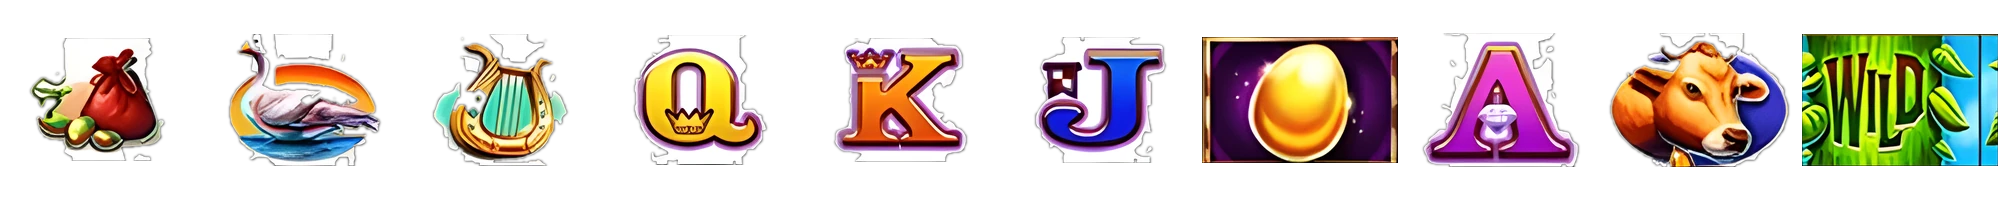
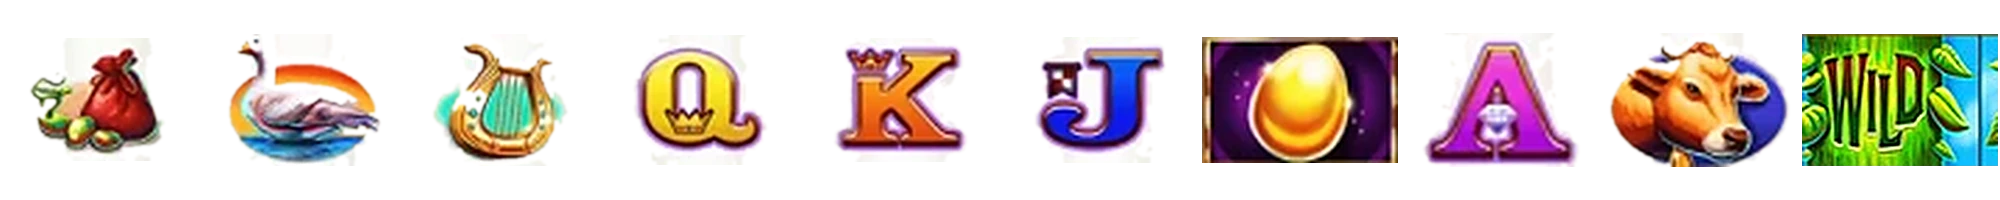
Giant's Gold: restore original symbols, eggs give n+ spins up to 100 (v80)
Claude-Session: https://claude.ai/code/session_01GACsyhKXrQRPfxxt1WzLhy

diff --git a/js/games/colossal.js b/js/games/colossal.js
@@ -11,8 +11,8 @@
 //    del colosal tiene símbolos dobles y WILD con multiplicador x2…x25 (x50 y x100 en giros gratis).
 //    3/4/5+ coliseos (de a uno por rodillo) = 8/12/20 giros gratis; en ellos un WILD se expande a todo el
 //    rodillo del principal y pasa entero al colosal.
-import { glow, goldText, roundRect, rand, FONT, makeCanvas, boltPoints, drawBolt } from '../gfx.js?v=79';
-import { ReelSet, LINES_5x3, weighted } from '../reels.js?v=79';
+import { glow, goldText, roundRect, rand, FONT, makeCanvas, boltPoints, drawBolt } from '../gfx.js?v=80';
+import { ReelSet, LINES_5x3, weighted } from '../reels.js?v=80';
 
 const COLS = 5, ROWS = 4, BIG_ROWS = 12;
 // 40 líneas del tablero principal y 60 del colosal (20 por cada banda de 4 filas)
@@ -41,9 +41,9 @@ function heroStrip(cfg, n, minH, L = n) {
 }
 const withStrip = (col, { r0, cells }) => col.slice(0, r0).concat(cells, col.slice(r0 + cells.length));
 const SCAT_REELS = [0, 2, 4];
-// Huevos de oro a la vista → giros gratis (3 huevos = 5 giros … 40 o más = 100 giros)
-const EGG_SPINS = [[40, 100], [35, 80], [30, 65], [25, 50], [20, 40], [16, 30], [13, 25], [10, 20], [8, 15], [7, 12], [6, 10], [5, 8], [4, 6], [3, 5]];
-export const eggSpins = n => (EGG_SPINS.find(([m]) => n >= m) || [0, 5])[1];
+// Huevos de oro a la vista → giros gratis: tantos giros como huevos y algo más (n + 2 + n/10),
+// hasta un máximo de 100 (3 = 5 · 5 = 7 · 10 = 13 · 50 = 57 · 80 = 90 · 89 o más = 100)
+export const eggSpins = n => Math.min(100, n + 2 + Math.floor(n / 10));
 export const MYSTERY_P = 1 / 260;
 // ÁNIMO DE LA MÁQUINA (como una máquina real de casino): en el juego base se alternan rachas FRÍAS
 // (pocas figuras apiladas y pocos bonos), NORMALES y CALIENTES (más personajes, pilas, WILD y bonos),
@@ -71,7 +71,7 @@ export const GIANT = {
     cow: [0, 0, 0, 15, 50, 150], goose: [0, 0, 0, 15, 40, 120], A: [0, 0, 0, 8, 25, 100], K: [0, 0, 0, 8, 20, 90], Q: [0, 0, 0, 5, 15, 75], J: [0, 0, 0, 5, 15, 60]
   },
   weights: { giant: 3, girl: 3.5, harp: 4, sack: 4.5, cow: 5, goose: 5, A: 10, K: 10, Q: 11, J: 13, bean: 0.8, egg: 1.4 },
-  scale: 0.83,
+  scale: 1.0,
   fullWild: { base: 0.006, free: 0.05 }, stackP: 0.3, wildStack: 0.14, eggStack: 0.35, eggFull: 0.12, eggFullBig: 0.004, heroCol: 0.06, heroColBig: 0.05,
   colors: {
     giant: ['#e8c89a', '#8a5a2a'], girl: ['#bfe8a8', '#3a7a2a'], harp: ['#fff0b0', '#b8861a'], sack: ['#ffc0b0', '#a82a1a'], cow: ['#d8f0ff', '#3a7ab0'], goose: ['#fff8e0', '#c8a040'],
@@ -421,7 +421,8 @@ class Colossal {
     this.main = new ReelSet({ cols: COLS, rows: ROWS, pick: c => this.spinPick(c, false), drawSym: (x, s, px, py, w, h, o) => this.drawMain(x, s, px, py, w, h, o) });
     this.big = new ReelSet({ cols: COLS, rows: BIG_ROWS, pick: c => this.spinPick(c, true), drawSym: (x, s, px, py, w, h, o) => this.drawBigCell(x, s, px, py, w, h, o) });
     // Al abrir, el colosal ya muestra sus pilas
-    for (let c = 0; c < COLS; c++) this.setColumn(this.big, c, bigColumn(cfg, c, false));
+    for (let c = 0; c < COLS; c++) { this.setColumn(this.main, c, mainColumn(cfg, c, false)); this.setColumn(this.big, c, bigColumn(cfg, c, false)); }
+    this.spinQ = null; // el relleno inicial no deja franjas a medio entregar
     this.freeLeft = 0; this.freeTotal = 0; this.inFree = false; this.fsTotal = 0;
     this.wins = null; this.winT = 0; this.time = 0; this.full = []; this.mega = -1; this.megaK = null;
     this.buy = { label: 'BONO', sub: b => app.fmt(b * 50), cost: b => b * 50, run: () => this.buyFree() };
@@ -1082,7 +1083,7 @@ export class GiantGold extends Colossal {
     return '<li><b>Dos tableros</b>: principal de <b>5×4</b> (40 líneas) y <b>colosal de 5×12</b> (60 líneas) = <b>100 líneas</b>. Los dos giran a la vez y en el colosal los símbolos caen en <b>pilas</b>.</li>' +
       '<li><b>Habichuela mágica = WILD</b> apilado; sustituye a todo menos al huevo de oro. Si un rodillo del principal queda <b>lleno de WILD</b>, se <b>transfiere entero</b> al mismo rodillo del colosal.</li>' +
       '<li><b>El gigante y la heroína</b> caen siempre de cuerpo completo: el rodillo entero del principal y el rodillo entero del colosal (12 filas). Son los símbolos que más pagan (5 en línea = 2000 y 1500 créditos por línea).</li>' +
-      '<li><b>Huevo de oro BONUS</b>, apilado (puede llenar un rodillo entero del principal o del colosal), solo en los rodillos 1, 3 y 5 de ambos tableros. Con huevos en <b>3 o más rodillos</b> se ganan giros gratis según los huevos a la vista: <b>3 = 5 · 5 = 8 · 8 = 15 · 10 = 20 · 16 = 30 · 25 = 50 · 40 o más = 100 giros</b>.</li>' +
+      '<li><b>Huevo de oro BONUS</b>, apilado (puede llenar un rodillo entero del principal o del colosal), solo en los rodillos 1, 3 y 5 de ambos tableros. Con huevos en <b>3 o más rodillos</b> se ganan <b>tantos giros gratis como huevos a la vista y algo más</b>: <b>3 = 5 · 5 = 7 · 10 = 13 · 20 = 24 · 50 = 57 · 80 = 90</b>, hasta un máximo de <b>100 giros</b>.</li>' +
       '<li>En los giros gratis <b>todo lo que se gana en el colosal paga x2</b>, salen más habichuelas y los huevos pueden dar más giros.</li>' +
       '<li><b>Progresivos</b>: rodillos WILD transferidos a la vez · <b>2 = MINI · 3 = MINOR · 4 = MAJOR · 5 = GRAND</b>.</li>';
   }

diff --git a/js/app.js b/js/app.js
@@ -1,19 +1,19 @@
-import { sfx, usableVoices } from './audio.js?v=79';
-import { loadAtlas, clearSpriteCache, Particles, goldText, ease, glow, clamp, FONT, rand } from './gfx.js?v=79';
-import { sleep } from './reels.js?v=79';
-import XLink from './games/xlink.js?v=79';
-import Avalanche from './games/avalanche.js?v=79';
-import FireWheel from './games/firewheel.js?v=79';
-import Legion from './games/legion.js?v=79';
-import Bull from './games/bull.js?v=79';
-import Dragon from './games/dragon.js?v=79';
-import Codex from './games/codex.js?v=79';
-import Reef from './games/reef.js?v=79';
-import Western from './games/western.js?v=79';
-import Galaxy from './games/galaxy.js?v=79';
-import { RedDream, SnowKingdom, loadThemeArt, sheetIconStyle } from './games/xthemes.js?v=79';
-import Wolf, { loadWolfArt } from './games/wolf.js?v=79';
-import { GiantGold, Spartacus, loadColossalArt } from './games/colossal.js?v=79';
+import { sfx, usableVoices } from './audio.js?v=80';
+import { loadAtlas, clearSpriteCache, Particles, goldText, ease, glow, clamp, FONT, rand } from './gfx.js?v=80';
+import { sleep } from './reels.js?v=80';
+import XLink from './games/xlink.js?v=80';
+import Avalanche from './games/avalanche.js?v=80';
+import FireWheel from './games/firewheel.js?v=80';
+import Legion from './games/legion.js?v=80';
+import Bull from './games/bull.js?v=80';
+import Dragon from './games/dragon.js?v=80';
+import Codex from './games/codex.js?v=80';
+import Reef from './games/reef.js?v=80';
+import Western from './games/western.js?v=80';
+import Galaxy from './games/galaxy.js?v=80';
+import { RedDream, SnowKingdom, loadThemeArt, sheetIconStyle } from './games/xthemes.js?v=80';
+import Wolf, { loadWolfArt } from './games/wolf.js?v=80';
+import { GiantGold, Spartacus, loadColossalArt } from './games/colossal.js?v=80';
 
 const GAMES = [XLink, RedDream, SnowKingdom, Wolf, Avalanche, FireWheel, Legion, Bull, Dragon, Codex, Reef, Western, Galaxy, GiantGold, Spartacus];
 const BETS = [10, 20, 30, 50, 100, 200, 500];

diff --git a/sw.js b/sw.js
@@ -1,6 +1,6 @@
 // Caché offline: la app funciona sin conexión una vez abierta.
-const CACHE = 'aurum-v79';
-const V = '?v=79';
+const CACHE = 'aurum-v80';
+const V = '?v=80';
 const FILES = ['./', './index.html', './css/app.css' + V, './js/app.js' + V, './js/audio.js' + V, './js/gfx.js' + V, './js/reels.js' + V,
   './js/games/xlink.js' + V, './js/games/avalanche.js' + V, './js/games/firewheel.js' + V, './js/games/legion.js' + V, './js/games/bull.js' + V, './js/games/dragon.js' + V, './js/games/codex.js' + V, './js/games/reef.js' + V, './js/games/western.js' + V, './js/games/galaxy.js' + V, './js/games/xthemes.js' + V, './js/games/wolf.js' + V, './js/games/colossal.js' + V,
   './assets/symbols.webp', './assets/themes.webp', './assets/wolf.webp', './assets/colossal.webp', './assets/giant_hero.webp', './assets/giant_sky.webp', './assets/giant_heroine.webp', './assets/giant_girltall.webp', './assets/giant_sym.webp', './assets/giant_scene.webp', './assets/sparta_sym.webp', './assets/sparta_tall.webp', './assets/sparta_ctall.webp', './assets/sparta_wtall.webp', './assets/sparta_scene.webp', './assets/sfx/howl.wav', './assets/sfx/bonus_in1.mp3', './assets/sfx/bonus_in2.mp3', './assets/sfx/levelup2.mp3', './assets/sfx/levelup3.mp3', './assets/sfx/coin_loop.mp3', './assets/sfx/jackpot2.mp3', './assets/sfx/jackpot3.mp3', './assets/sfx/youwin1.mp3', './assets/sfx/youwin2.mp3', './assets/sfx/youwin3.mp3', './assets/sfx/sparta_fs.mp3', './assets/sfx/sparta_antic.mp3', './assets/sfx/real_1.mp3', './assets/sfx/real_2.mp3', './assets/sfx/real_3.mp3', './assets/sfx/real_4.mp3', './assets/sfx/real_5.mp3', './assets/sfx/real_6.mp3', './assets/sfx/real_7.mp3', './assets/sfx/real_8.mp3', './assets/sfx/real_9.mp3', './assets/sfx/real_10.mp3', './assets/sfx/real_11.mp3', './assets/sfx/real_12.mp3', './assets/sfx/real_13.mp3', './assets/sfx/real_14.mp3', './assets/sfx/real_15.mp3', './assets/voice/index.json', './icon-180.png', './icon-512.png', './manifest.webmanifest'];

diff --git a/js/games/xlink.js b/js/games/xlink.js
@@ -3,8 +3,8 @@
 // hasta 8 filas y 100 líneas. 6+ bolas doradas activan GOLDEN SPINS: las bolas quedan fijas,
 // 3 giros que se reinician con cada bola nueva y filas que se desbloquean con rayos al
 // acumular 8 · 12 · 17 · 23 · 30 bolas. Tablero lleno (40) = GRAND.
-import { S, sym, ball, jackpotRibbonBall, cashBall, spinsBall, specialIcon, spriteURL, bolt, electricRing, glow, goldText, roundRect, ease, rand, makeCanvas, FONT } from '../gfx.js?v=79';
-import { ReelSet, LINES_5x3, weighted } from '../reels.js?v=79';
+import { S, sym, ball, jackpotRibbonBall, cashBall, spinsBall, specialIcon, spriteURL, bolt, electricRing, glow, goldText, roundRect, ease, rand, makeCanvas, FONT } from '../gfx.js?v=80';
+import { ReelSet, LINES_5x3, weighted } from '../reels.js?v=80';
 
 const COLS = 5, MAXR = 8, BASE_R = 3;
 const TEASE = 0.07, TEASE_EDGE = 0.18, GHOST_P = 0.4; // bolas extra detrás de la cortina (efecto "casi")

diff --git a/js/games/galaxy.js b/js/games/galaxy.js
@@ -3,8 +3,8 @@
 // llega hasta el ÚLTIMO rodillo aparece uno nuevo a la derecha y gira solo, hasta 15 rodillos.
 // Llegar a 8 / 10 / 12 / 15 rodillos = MINI / MINOR / MAJOR / GRAND.
 // 3+ portales = 8 giros gratis con multiplicador que sube +1 por cada rodillo nuevo y no se reinicia.
-import { S, sym, glow, goldText, roundRect, rand, FONT, makeCanvas } from '../gfx.js?v=79';
-import { ReelSet, weighted } from '../reels.js?v=79';
+import { S, sym, glow, goldText, roundRect, rand, FONT, makeCanvas } from '../gfx.js?v=80';
+import { ReelSet, weighted } from '../reels.js?v=80';
 
 const ROWS = 3, START = 3, MAXC = 15;
 export const P = { sun: 1, diamond: 0.8, rstar: 0.6, bstar: 0.5, gstar: 0.4, snow: 0.4, K: 0.2, Q: 0.2, J: 0.15, ten: 0.15 };

diff --git a/js/games/avalanche.js b/js/games/avalanche.js
@@ -2,8 +2,8 @@
 // 6x5, pagos en cualquier posición (8+ iguales). Los símbolos ganadores estallan en hielo y
 // caen nuevos (cascadas). Multiplicador base x1→x2→x3→x5 por cascada. 4+ copos = 10 giros
 // gratis con multiplicador progresivo que NO se reinicia (+1 por cada cascada ganadora).
-import { S, sym, ball, jackpotBall, shortMoney, glow, goldText, roundRect, ease, rand, FONT, makeCanvas, electricRing } from '../gfx.js?v=79';
-import { weighted } from '../reels.js?v=79';
+import { S, sym, ball, jackpotBall, shortMoney, glow, goldText, roundRect, ease, rand, FONT, makeCanvas, electricRing } from '../gfx.js?v=80';
+import { weighted } from '../reels.js?v=80';
 
 const COLS = 6, ROWS = 5;
 export const PAY = {

diff --git a/js/games/wolf.js b/js/games/wolf.js
@@ -3,8 +3,8 @@
 // Los símbolos altos también caen apilados. Atrapasueños BONUS solo en los rodillos 2, 3 y 4:
 // 3 = 5 giros gratis con WILDS APILADOS REFORZADOS (se repiten: +5).
 // Progresivos: rodillos llenos de WILD a la vez → 2 MINI · 3 MINOR · 4 MAJOR · 5 GRAND.
-import { S, glow, goldText, roundRect, rand, FONT, makeCanvas } from '../gfx.js?v=79';
-import { ReelSet, LINES_5x3, weighted } from '../reels.js?v=79';
+import { S, glow, goldText, roundRect, rand, FONT, makeCanvas } from '../gfx.js?v=80';
+import { ReelSet, LINES_5x3, weighted } from '../reels.js?v=80';
 
 const COLS = 5, ROWS = 4;
 // 40 líneas: los 20 patrones de 3 filas en las bandas de arriba y de abajo, sin repetir, más zigzags

diff --git a/js/games/codex.js b/js/games/codex.js
@@ -2,8 +2,8 @@
 // El CÓDICE es wild y dispersor a la vez: 3+ en cualquier lugar = 10 giros gratis. Antes de
 // empezar se elige al azar un SÍMBOLO ESPECIAL; en los giros gratis, si aparece en suficientes
 // rodillos se EXPANDE a todo el rodillo y paga en las 10 líneas aunque no esté contiguo.
-import { S, sym, glow, goldText, roundRect, ease, rand, FONT, makeCanvas } from '../gfx.js?v=79';
-import { ReelSet, LINES_5x3, weighted } from '../reels.js?v=79';
+import { S, sym, glow, goldText, roundRect, ease, rand, FONT, makeCanvas } from '../gfx.js?v=80';
+import { ReelSet, LINES_5x3, weighted } from '../reels.js?v=80';
 
 const COLS = 5, ROWS = 3, NL = 10;
 const LINES = LINES_5x3.slice(0, NL);

diff --git a/js/games/reef.js b/js/games/reef.js
@@ -3,8 +3,8 @@
 // estalla un grupo queda MARCADA; si vuelve a estallar ahí se enciende un multiplicador x2 que
 // se duplica cada vez (x4, x8 … x128). Un grupo sobre casillas encendidas se multiplica por la
 // suma de sus multiplicadores. 3+ perlas = giros gratis donde las marcas NO se borran.
-import { S, sym, ball, glow, goldText, roundRect, rand, FONT, makeCanvas } from '../gfx.js?v=79';
-import { weighted } from '../reels.js?v=79';
+import { S, sym, ball, glow, goldText, roundRect, rand, FONT, makeCanvas } from '../gfx.js?v=80';
+import { weighted } from '../reels.js?v=80';
 
 const COLS = 7, ROWS = 7;
 // Pago (× apuesta) según tamaño del grupo: 5, 6, 7, 8, 9-10, 11-12, 13-14, 15+

diff --git a/js/games/firewheel.js b/js/games/firewheel.js
@@ -1,8 +1,8 @@
 // RUEDA DE FUEGO · clásico 3x3, 5 líneas.
 // El WILD de fuego solo cae en el rodillo central: se expande a todo el rodillo y duplica
 // las líneas donde participa. 3 soles = RUEDA DE FUEGO con multiplicadores y 4 jackpots.
-import { S, sym, glow, goldText, roundRect, ease, rand, FONT } from '../gfx.js?v=79';
-import { ReelSet, LINES_3x3, weighted, weightedIdx } from '../reels.js?v=79';
+import { S, sym, glow, goldText, roundRect, ease, rand, FONT } from '../gfx.js?v=80';
+import { ReelSet, LINES_3x3, weighted, weightedIdx } from '../reels.js?v=80';
 
 export const PAY = { seven: 60, bell: 24, melon: 18, grapes: 18, plum: 9, orange: 9, cherry: 6 };
 const W_REEL = [

diff --git a/js/games/western.js b/js/games/western.js
@@ -3,8 +3,8 @@
 // avanza un rodillo a la izquierda hasta salir del tablero. Mientras quede alguno en pantalla
 // se sigue re-girando. 3/4/5/6+ forajidos a la vez = MINI/MINOR/MAJOR/GRAND.
 // 3+ estrellas de sheriff = 10 giros gratis donde cada forajido en una línea la multiplica x2.
-import { S, sym, glow, goldText, roundRect, ease, rand, FONT, makeCanvas } from '../gfx.js?v=79';
-import { ReelSet, LINES_5x3, weighted } from '../reels.js?v=79';
+import { S, sym, glow, goldText, roundRect, ease, rand, FONT, makeCanvas } from '../gfx.js?v=80';
+import { ReelSet, LINES_5x3, weighted } from '../reels.js?v=80';
 
 const COLS = 5, ROWS = 3;
 export const PAY = {

diff --git a/js/games/xthemes.js b/js/games/xthemes.js
@@ -4,8 +4,8 @@
 // las filas cerradas son paneles rojos. Reino de Nieve paga por líneas y el hielo es una lámina escarchada.
 //  · SUEÑO ROJO: pagoda roja, paneles lacados con borlas, rodillos de jade, cerezos en flor.
 //  · REINO DE NIEVE: castillo de hielo, paneles escarchados, aurora, carámbanos y nevada.
-import { S, glow, goldText, rand, FONT, makeCanvas } from '../gfx.js?v=79';
-import XLink, { THEME, PAY, linesFor } from './xlink.js?v=79';
+import { S, glow, goldText, rand, FONT, makeCanvas } from '../gfx.js?v=80';
+import XLink, { THEME, PAY, linesFor } from './xlink.js?v=80';
 
 const MAXR = 8, BASE_R = 3;
 // Filas activas → formas de ganar
